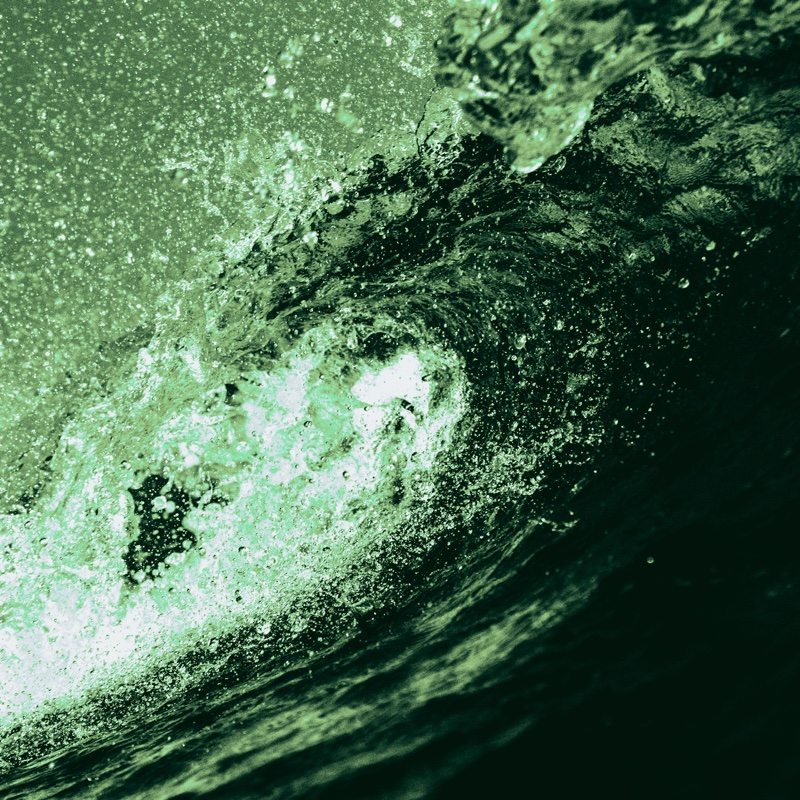
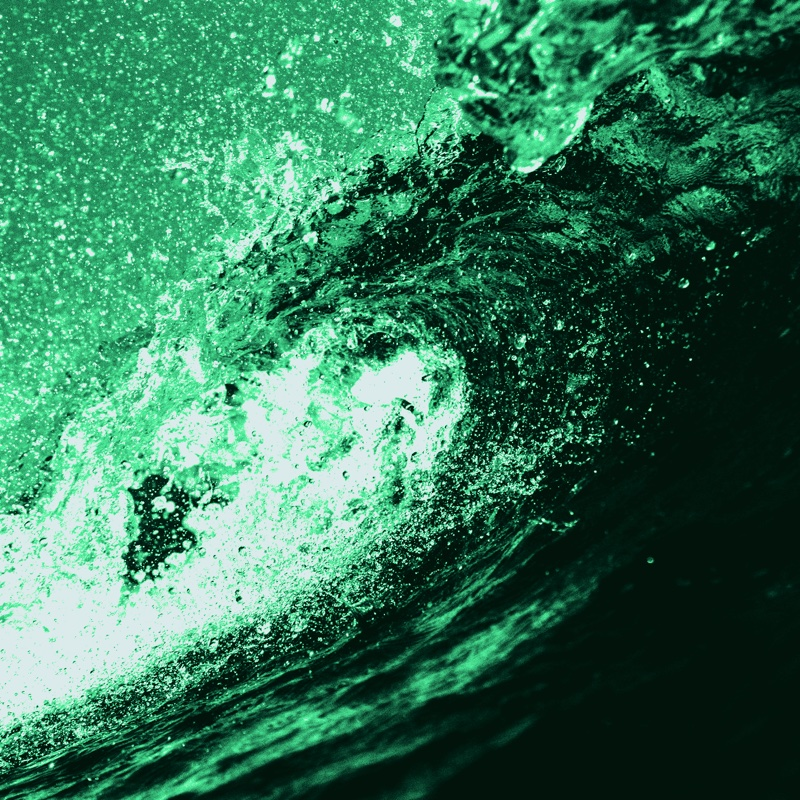
docs: recolour the wave images with the palette v0.2.0 colours

diff --git a/README.md b/README.md
@@ -66,7 +66,7 @@ Releases are automated with [release-please](https://github.com/googleapis/relea
 
 ## Images
 
-- `assets/emerald-wave.png`: a barrel wave recoloured so every pixel sits on the palette.
+- `assets/emerald-wave.png`: a barrel wave recoloured onto the palette with `emerald-gen recolour -in vortex.jpg -out assets/emerald-wave.png` (default ramp).
 - `assets/emerald-wave-avatar.jpg`: 800×800 crop of the same image, used as the organisation profile picture.
 
 Wave photo: ["Vortex" by Matt Hardy](https://unsplash.com/photos/zJ-Cj3nT6EU) on Unsplash, used under the Unsplash License.
